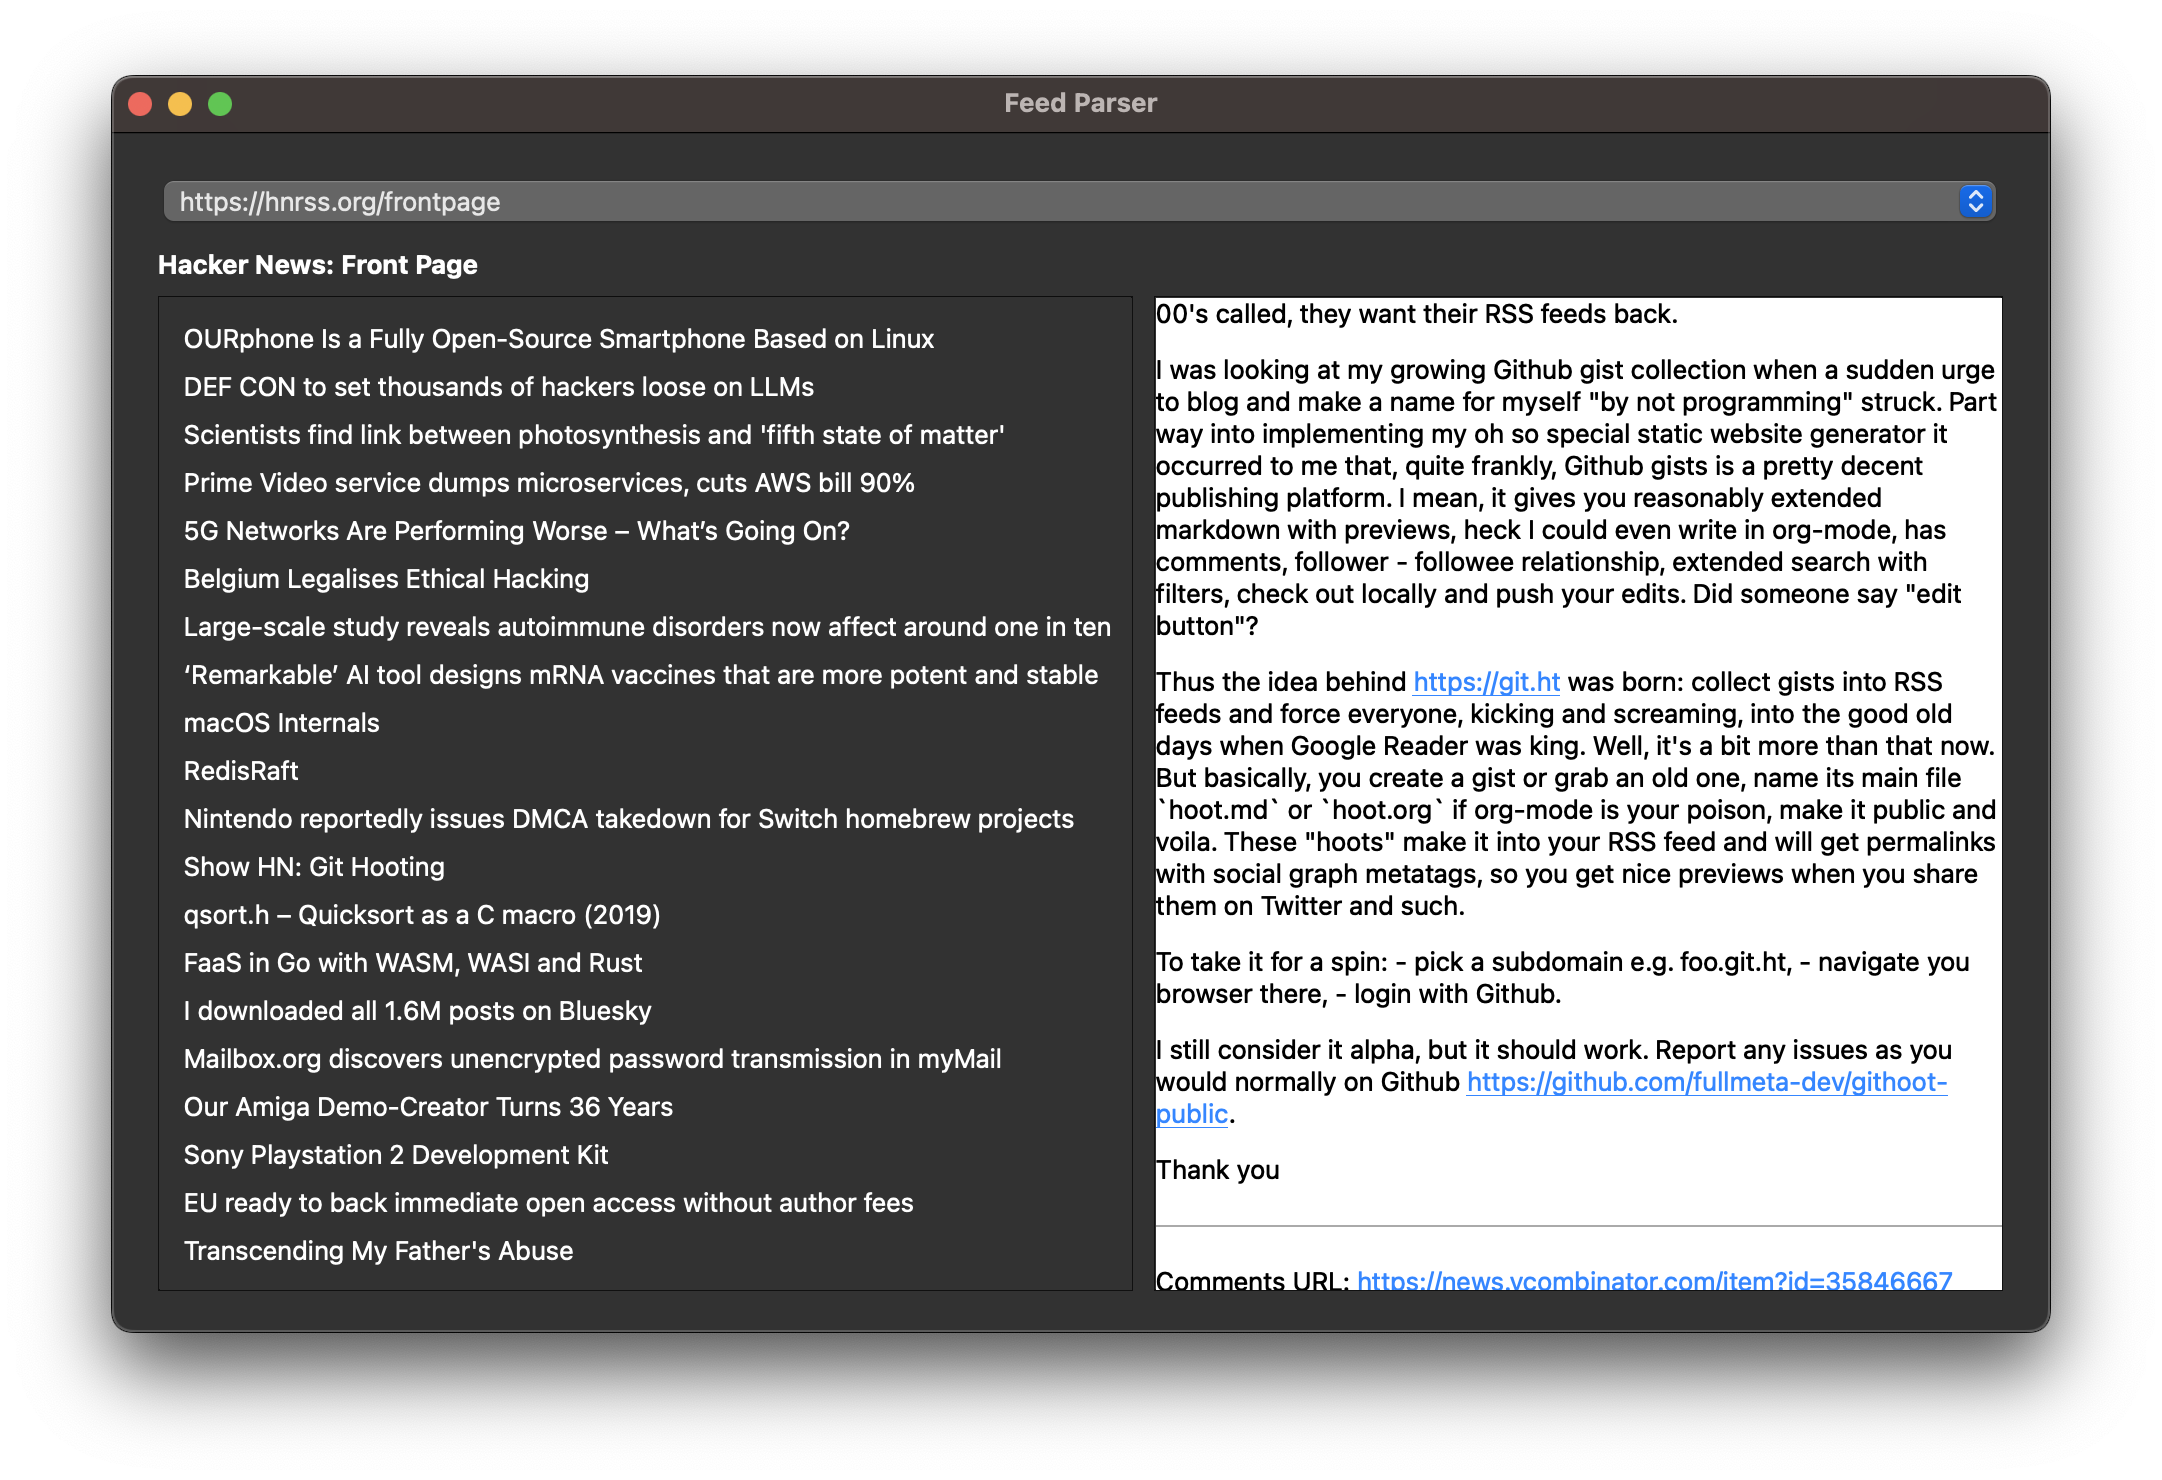
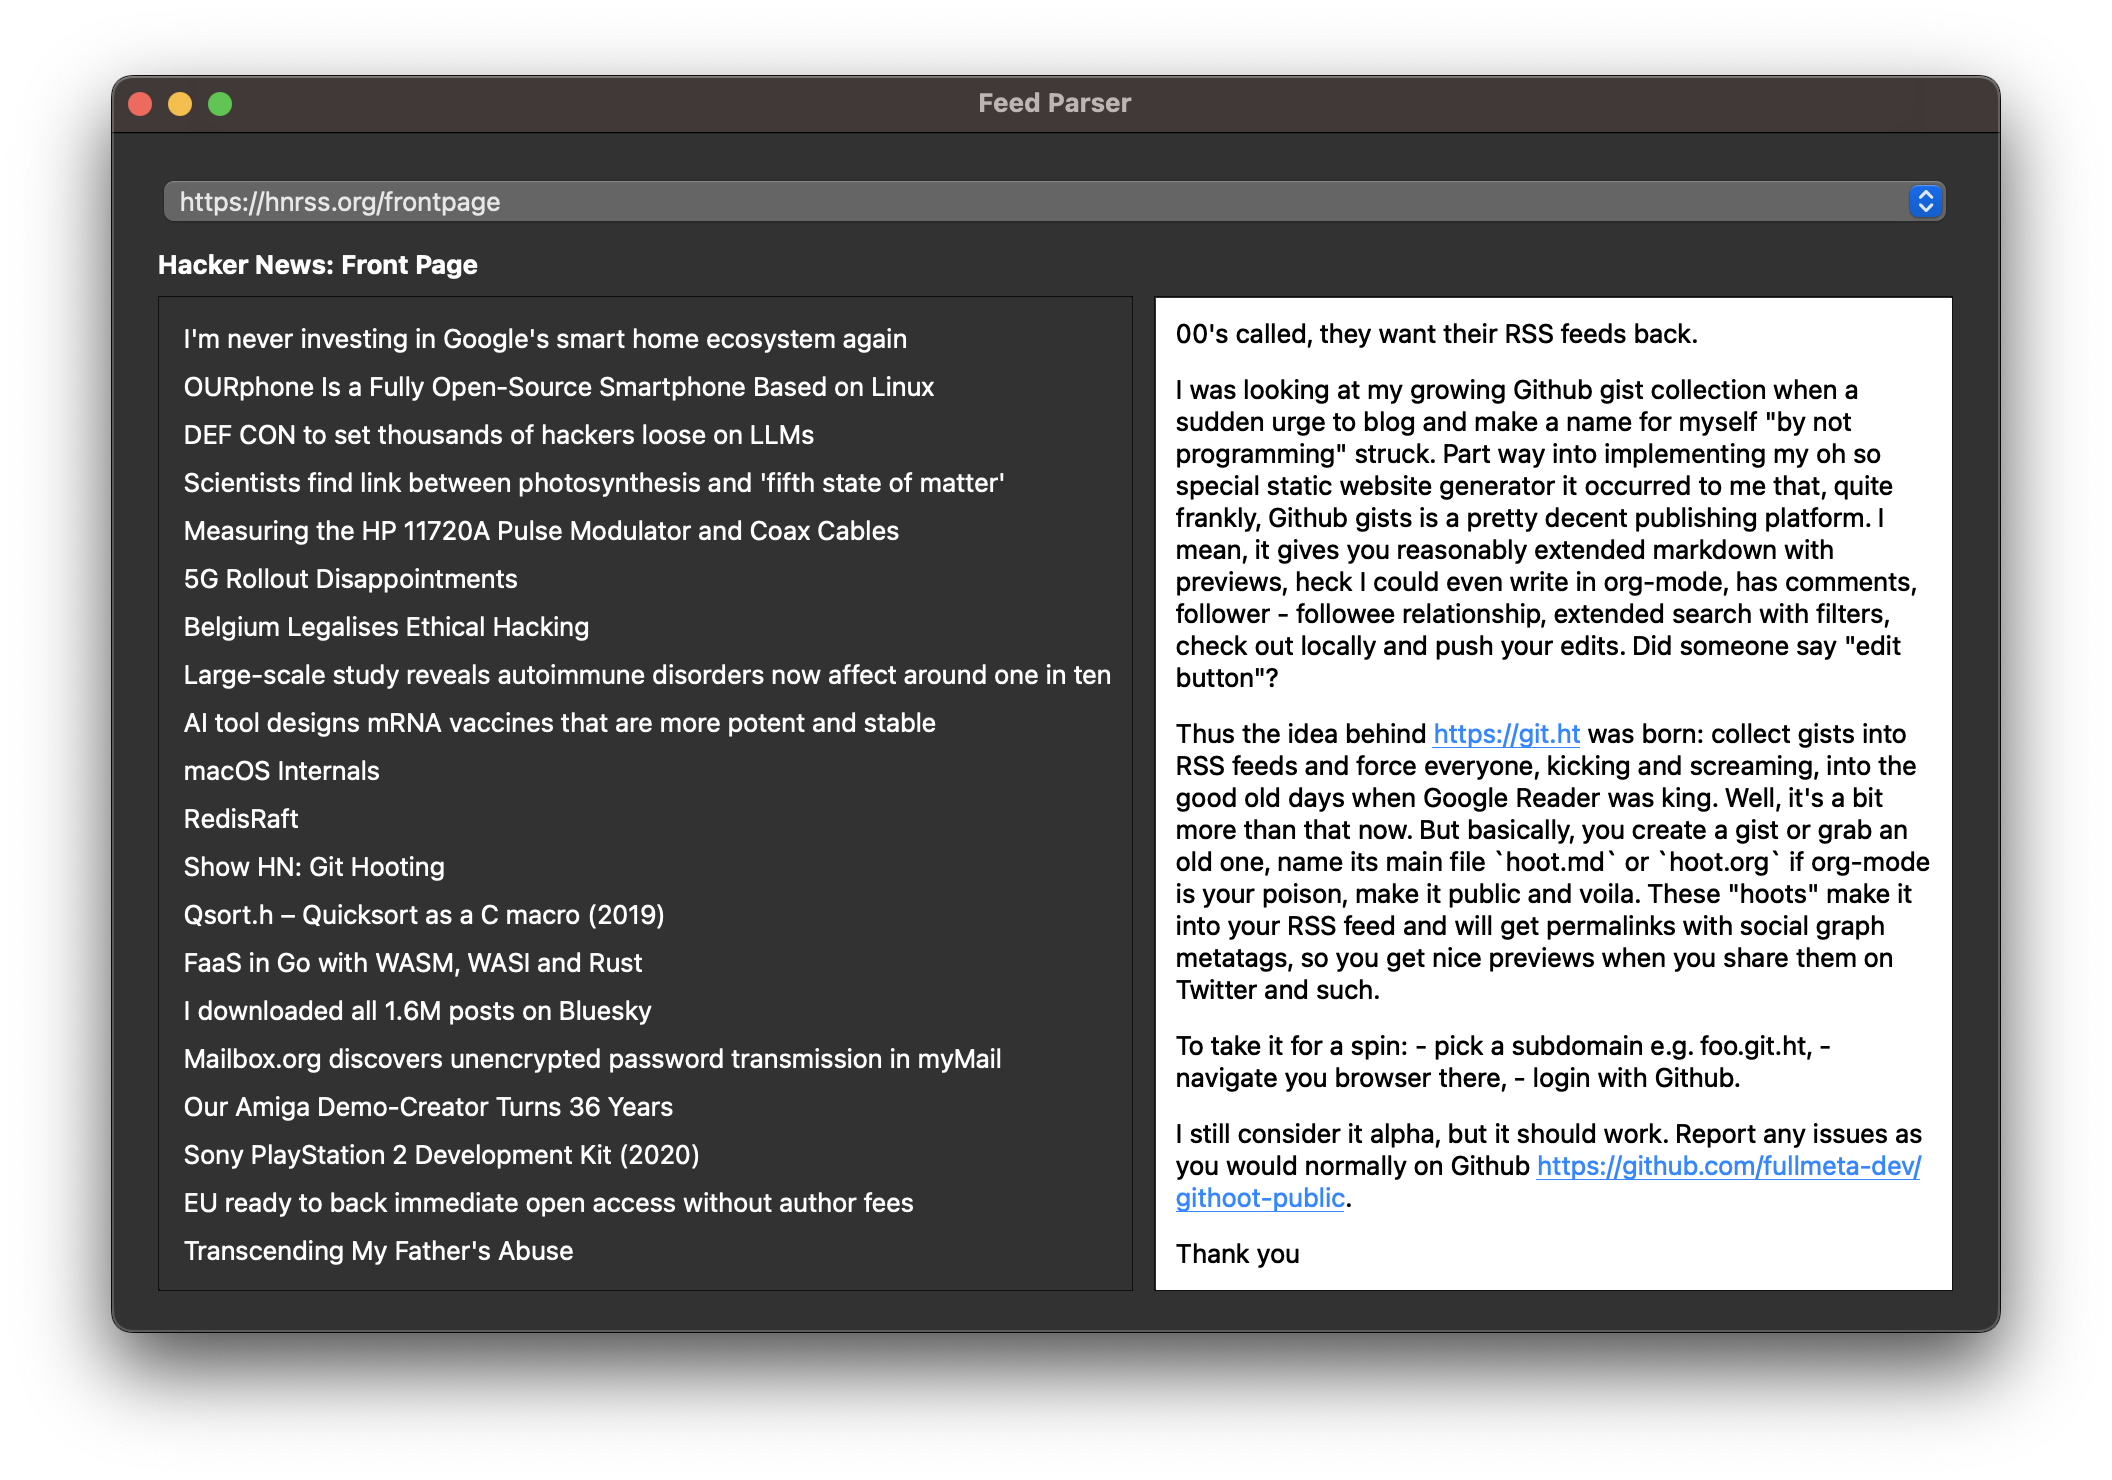
Add .layout(padding=)

diff --git a/PUI/node.py b/PUI/node.py
@@ -1,4 +1,5 @@
 import threading
+from .utils import *
 
 tls = threading.local()
 
@@ -118,13 +119,17 @@ class PUINode():
         segs.append("".join(["  "*len(self.path), "}"]))
         return "".join(segs)
 
-    def layout(self, width=None, height=None, weight=None):
+    def layout(self, width=None, height=None, weight=None, padding=None, margin=None):
         if not width is None:
             self.layout_width = width
         if not height is None:
             self.layout_height = height
         if not weight is None:
             self.layout_weight = weight
+        if not padding is None:
+            self.layout_padding = trbl(padding)
+        if not margin is None:
+            self.layout_margin = trbl(margin)
 
         return self
 

diff --git a/PUI/PySide6/text.py b/PUI/PySide6/text.py
@@ -1,5 +1,6 @@
 from .. import *
 from .base import *
+from ..utils import *
 from PySide6.QtWidgets import QSizePolicy
 
 class QText(QtWidgets.QLabel):
@@ -36,6 +37,7 @@ class QtText(QtBaseWidget):
             self.ui.setAlignment(QtCore.Qt.AlignmentFlag.AlignTop)
             self.ui.setWordWrap(True)
             self.ui.setSizePolicy(QSizePolicy(QSizePolicy.Policy.Expanding, QSizePolicy.Policy.Ignored))
-
+        if self.layout_padding:
+            self.ui.setContentsMargins(*trbl2ltrb(self.layout_padding))
 
         super().update(prev)

diff --git a/examples/pyside6_feedparser.py b/examples/pyside6_feedparser.py
@@ -48,7 +48,7 @@ class Example(Application):
 
                     with Scroll().layout(weight=1):
                         if 0 <= self.data.selected and self.data.selected < len(self.data.loaded.entries):
-                            Text(self.data.loaded.entries[self.data.selected].description).qt(StyleSheet="background-color:white; color:black")
+                            Text(self.data.loaded.entries[self.data.selected].description).layout(padding=10).qt(StyleSheet="background-color:white; color:black")
 
 root = Example()
 root.run()

diff --git a/PUI/utils.py b/PUI/utils.py
@@ -1,0 +1,15 @@
+def trbl(d):
+    # https://www.w3schools.com/css/css_padding.asp
+    if isinstance(d, int) or isinstance(d, float):
+        return (d,d,d,d)
+    elif len(d) == 4: # top, right, bottom, left
+        return d
+    elif len(d) == 3: # top, right/left, bottom
+        return (d[0], d[1], d[2], d[1])
+    elif len(d) == 2: # top/bottom, right/left
+        return (d[0], d[1], d[0], d[1])
+    else:
+        raise RuntimeError(f"Unsupported format: {d}")
+    
+def trbl2ltrb(d):
+    return (d[3], d[0], d[1], d[2])

diff --git a/README.md b/README.md
@@ -99,7 +99,7 @@ with VBox():
 
         with Scroll().layout(weight=1): # Generic Layout Parameter
             if 0 <= selected and selected < len(entries):
-                Text(entries[selected].description).qt(StyleSheet="background-color:white; color:black") # QT-specific
+                Text(entries[selected].description).layout(padding=10).qt(StyleSheet="background-color:white; color:black") # Both
 ...
 ```
 ![Layout & Styling](https://github.com/buganini/PUI/raw/main/screenshots/feed_parser.png)
